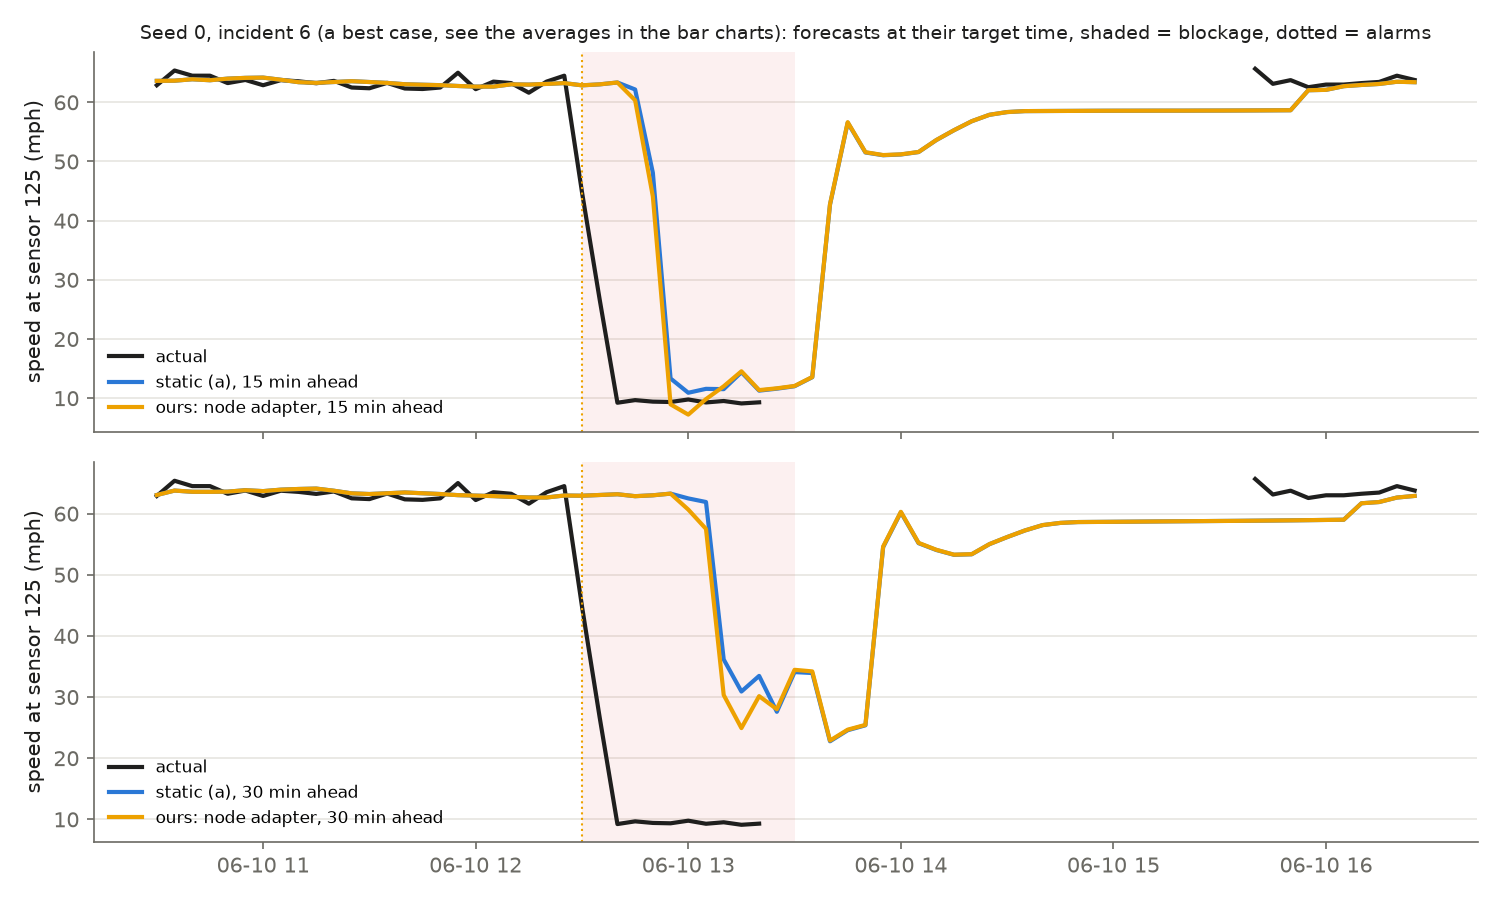
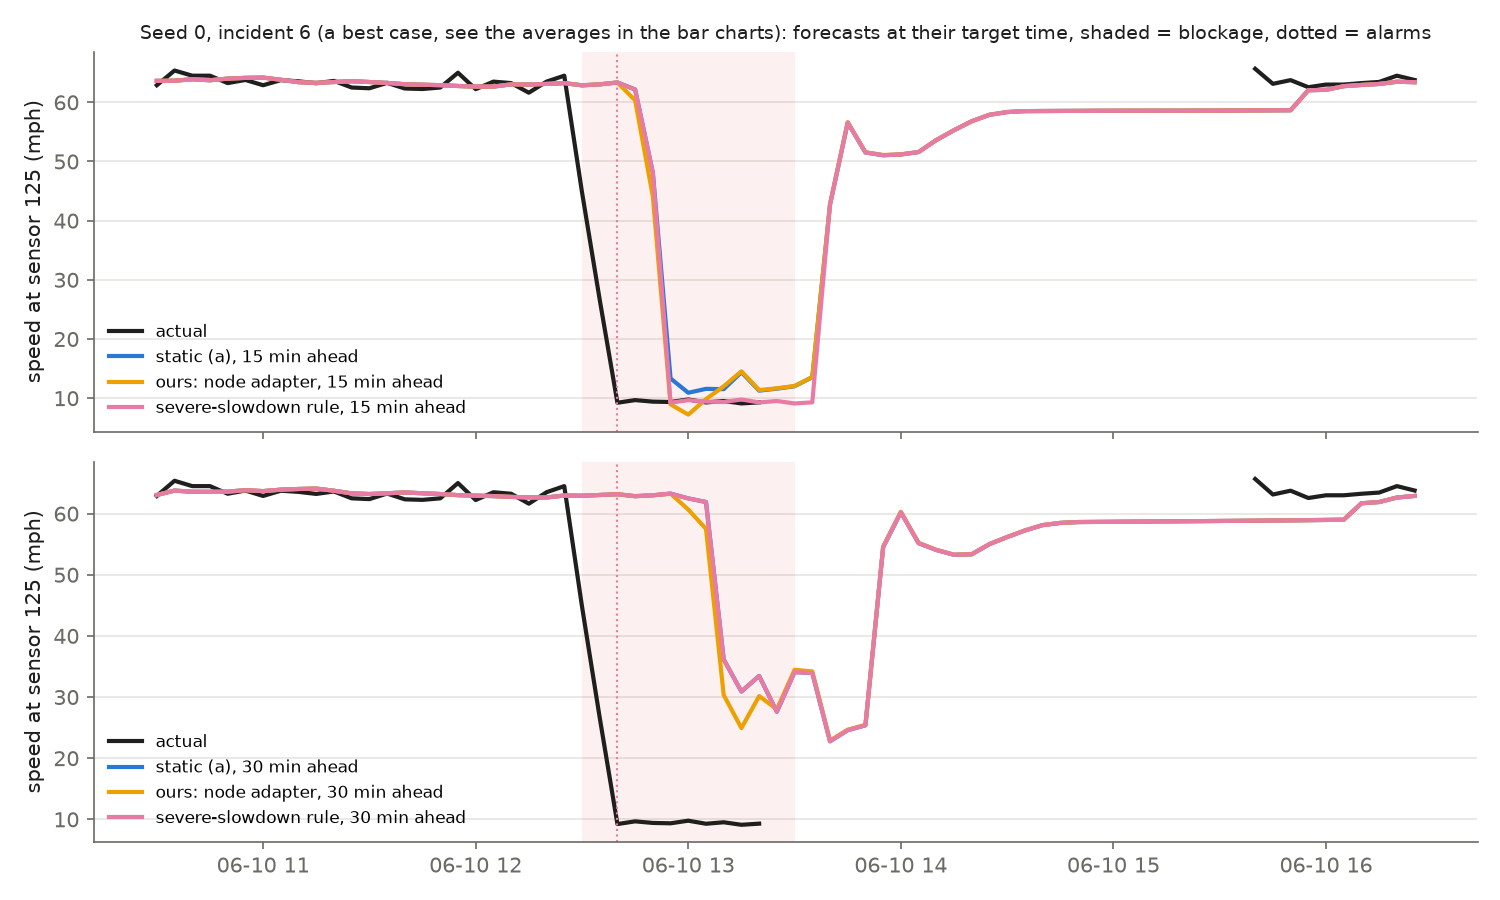
Test the severe-slowdown rule, update figures and the team summary
The rule improves disrupted-period MAE by 0.850 mph on 2 h incidents
(0.113 on 45-minute ones) within the normal-period limit. The learned
adapter stays best on 45-minute incidents. Figures now include a typical
incident next to the best cases.

diff --git a/scripts/plots.py b/scripts/plots.py
@@ -1,7 +1,8 @@
 """Figures from run_experiments.py outputs.
-Usage: python scripts/plots.py [--seed 0] [--event9 6] [--event24 12]
-The default incidents (seed 0) are the ones where ours gains most at 15 min, picked to show the
-mechanism; they are best cases, not typical ones (the bar charts show the averages).
+Usage: python scripts/plots.py [--seed 0] [--event9 6] [--event24 5] [--typical24 9]
+The default incidents (seed 0): event9 and event24 are where the methods gain most at 15 min,
+picked to show the mechanism (best cases); typical24 is the incident closest to the rule's
+median gain. The bar charts show the averages.
 Writes results/fig_mae_bars_dur{9,24}.png and results/fig_incident_seed{S}_dur{D}_{K}.png."""
 import argparse
 import ast
@@ -21,8 +22,10 @@ import incidents  # noqa: E402
 
 RES = ROOT / "results"
 # fixed categorical order (dataviz reference palette, validated for light mode); ours = node-global
-COLORS = {"static": "#2a78d6", "naive": "#eb6834", "head": "#1baf7a", "node-global": "#eda100"}
-LABELS = {"static": "static (a)", "naive": "naive (b)", "head": "head only (spec c)", "node-global": "ours: node adapter"}
+COLORS = {"static": "#2a78d6", "naive": "#eb6834", "head": "#1baf7a", "node-global": "#eda100",
+          "rule-severe": "#e87ba4"}
+LABELS = {"static": "static (a)", "naive": "naive (b)", "head": "head only (spec c)",
+          "node-global": "ours: node adapter", "rule-severe": "severe-slowdown rule"}
 INK, MUTED = "#1f1f1e", "#6b6a64"
 
 
@@ -62,7 +65,7 @@ def bars(dur):
     plt.close(fig)
 
 
-def incident(seed, dur, k):
+def incident(seed, dur, k, note="a best case, see the averages in the bar charts"):
     ev = pd.read_csv(RES / f"incidents_seed{seed}_dur{dur}.csv", converters={"sensors": ast.literal_eval})
     e = ev.iloc[k]
     df = data.load_speed_df()
@@ -74,12 +77,12 @@ def incident(seed, dur, k):
     for ax, (col, hz) in zip(axes, [(1, "15 min"), (2, "30 min")]):
         s = e.sensors[0]
         ax.plot(df.index[t], np.where(speed[t, s] == 0, np.nan, speed[t, s]), color=INK, lw=2, label="actual")
-        for v in ["static", "node-global"]:
+        for v in ["static", "node-global", "rule-severe"]:
             z = np.load(RES / "replays" / f"seed{seed}_dur{dur}_{v}.npz")
             step = [0, 3, 6][col]  # saved horizons are 1, 3, 6, 12 steps ahead
             p = z["preds"][:, col]  # row i issued at t0 + i, target t0 + i + step
             ax.plot(df.index[t], p[t - step - t0, s], color=COLORS[v], lw=2, label=f"{LABELS[v]}, {hz} ahead")
-            if v == "node-global":
+            if v == "rule-severe":
                 for al in z["alarms"]:
                     if lo <= al < hi:
                         ax.axvline(df.index[int(al)], color=COLORS[v], ls=":", lw=1)
@@ -87,7 +90,7 @@ def incident(seed, dur, k):
         ax.set_ylabel(f"speed at sensor {s} (mph)", color=INK)
         ax.legend(frameon=False, fontsize=8, loc="lower left")
         style(ax)
-    axes[0].set_title(f"Seed {seed}, incident {k} (a best case, see the averages in the bar charts): "
+    axes[0].set_title(f"Seed {seed}, incident {k} ({note}): "
                       f"forecasts at their target time, shaded = blockage, dotted = alarms", color=INK, fontsize=9)
     fig.tight_layout()
     fig.savefig(RES / f"fig_incident_seed{seed}_dur{dur}_{k}.png", dpi=150)
@@ -98,9 +101,11 @@ if __name__ == "__main__":
     ap = argparse.ArgumentParser()
     ap.add_argument("--seed", type=int, default=0)
     ap.add_argument("--event9", type=int, default=6)
-    ap.add_argument("--event24", type=int, default=12)
+    ap.add_argument("--event24", type=int, default=5)
+    ap.add_argument("--typical24", type=int, default=9, help="incident closest to the median gain")
     a = ap.parse_args()
     for dur, k in ((9, a.event9), (24, a.event24)):
         bars(dur)
         incident(a.seed, dur, k)
+    incident(a.seed, 24, a.typical24, note="a typical case: median gain of the rule")
     print("figures written to", RES)

diff --git a/docs/TEAM_UPDATE.md b/docs/TEAM_UPDATE.md
@@ -42,20 +42,31 @@ Disrupted-period MAE averaged over 15/30/60 min, improvement over the static mod
 |---|---|---|---|
 | naive fine-tuning (b) | 3.37 mph worse | 2.20 mph worse | 1.85 mph worse |
 | spec's head-only update (c) | no change | no change | 0.03 mph worse |
-| ours (node adapter) | 0.19 mph better | 0.27 mph better | 0.004 mph worse (within our 0.005 limit) |
+| ours: node adapter | 0.19 mph better | 0.27 mph better | 0.004 mph worse |
+| severe-slowdown rule | 0.11 mph better | 0.85 mph better | 0.004 mph worse |
 
-At 15 minutes during 45-minute incidents, ours goes from 13.25 to 13.00 mph MAE. Each update
-takes about 0.1 s, far below the 5-minute budget. Naive fine-tuning shows the forgetting the spec
-expected.
+Both of our methods stay within the limit we set for the normal period (0.005 mph). Each update
+of the adapter takes about 0.1 s, far below the 5-minute budget; the rule needs no training.
 
-The gains are modest, and there's a measured reason: for 45-minute incidents, most of the error
-comes from forecasts made before the incident started, which no online method can fix. At 60
-minutes that's 82 % of the error. Long incidents leave more room, which is why the gain is
-larger there.
+The severe-slowdown rule is a second, simpler method I added after looking at where the error
+comes from. After an alarm, a sensor that reads below 30 % of its usual speed for that time of
+day gets its 15-minute forecast pulled to the last observed speed; the 30-minute forecast is
+pulled too once the slowdown has lasted an hour. In 2 h incidents this cuts the 15-minute error
+from 12.07 to 10.14 mph (16 %). It isn't a parameter update, so I present it next to the adapter
+rather than instead of it, and its thresholds were tuned on synthetic incidents of two fixed
+lengths, so they may not transfer one to one to real incidents.
 
-Figures: `results/fig_mae_bars_dur9.png`, `results/fig_mae_bars_dur24.png`, and two example
-incidents (`results/fig_incident_seed0_dur9_6.png`, `..._dur24_12.png`; these are best cases,
-picked to show the mechanism).
+Why the gains on 45-minute incidents stay small: most of that error comes from forecasts made
+before the incident started, and from forecasts that cross the moment it clears. No online
+method can know either. On the validation period, 82 % of the 60-minute error comes from
+forecasts issued before the onset, and holding the last observed speed with perfect knowledge
+of where and when the incident is makes 45-minute incidents worse while gaining about 4.6 mph
+on 2-hour ones. That is the main finding of the tuning: how much online adaptation can help depends on how
+long incidents last.
+
+Figures: `results/fig_mae_bars_dur9.png` and `..._dur24.png` (averages), two best-case
+incidents (`fig_incident_seed0_dur9_6.png`, `fig_incident_seed0_dur24_5.png`) and one typical
+one (`fig_incident_seed0_dur24_9.png`).
 
 ## Still open
 

diff --git a/docs/PLAN.md b/docs/PLAN.md
@@ -10,10 +10,11 @@ point to. An earlier draft of the spec contained made-up numbers, and none of th
 
 ## Where we left off (update at the end of every session)
 
-2026-10-10. Method settled and evaluated on test. "Ours" is the node adapter (node-global in
-`results/test_variants.jsonl`); test results and the decision are at the end of
-`docs/EXPERIMENTS.md`, the team-facing summary is `docs/TEAM_UPDATE.md`, figures in `results/`.
-Open: mined real incidents as a scenario, dashboard.
+2026-10-29. Two methods evaluated on test: the learned node adapter (best on 45-minute
+incidents) and the severe-slowdown rule (best on 2 h incidents). Details at the end of
+`docs/EXPERIMENTS.md`, team summary in `docs/TEAM_UPDATE.md`, figures in `results/`.
+Open: a hybrid that passes the normal-period constraint, mined real incidents as a scenario
+(the best check of whether the rule's thresholds transfer), dashboard.
 
 To continue after a break or a shutdown:
 1. Tuning queue: `powershell -ExecutionPolicy Bypass -File scripts\start_tuning.ps1`. It runs
@@ -294,3 +295,6 @@ Append only, newest last.
   decay 0.7, 3 training windows, 6 continuous update steps after an alarm, nbrtop3 PageHinkley
   detector at threshold 8. Chosen on validation (EXPERIMENTS E0 to E15), confirmed on test:
   disrupted gain +0.185 mph (45 min) and +0.267 (2 h), normal-period delta +0.0036.
+- 2026-10-29: Added the severe-slowdown rule (Persist in src/adapt.py, config "rule-severe") as a
+  rule-based alternative to the learned adapter. Test: +0.113 (45 min) and +0.850 (2 h), normal
+  delta +0.0036. Reported next to the adapter, not instead of it.

diff --git a/docs/EXPERIMENTS.md b/docs/EXPERIMENTS.md
@@ -552,4 +552,20 @@ alternative next to the learned adapter, not as a replacement for it.
 ### Test run 2: the rule against the learned adapter
 rule-severe added to `results/test_variants.jsonl` and run on test (3 seeds, dur 9 and 24),
 alongside the existing test results.
-Outcome: pending.
+Outcome (test; gain = static disrupted MAE minus variant, mean over 15/30/60 min, +- std over
+seeds):
+
+| variant | 45 min gain | 2 h gain | dis15 at 45 min / 2 h | norm15 delta |
+|---|---|---|---|---|
+| static | 0 | 0 | 13.248 / 12.065 | 0 |
+| node-global (learned adapter) | +0.185 +- 0.047 | +0.267 +- 0.068 | 12.996 / 11.708 | +0.0036 |
+| rule-severe | +0.113 +- 0.031 | +0.850 +- 0.153 | 12.889 / 10.142 | +0.0036 |
+
+The rule holds up on test (validation: +0.169 / +1.049) and is the best method for long
+incidents: the 15 minute error in 2 h incidents drops by 16 % (12.07 -> 10.14 mph). The learned
+adapter stays best on the spec's 45-minute incidents. They are complementary, but the hybrid
+failed the normal-period constraint on validation (E20), so no combined method is claimed.
+Per incident (seed 0, 15 min, incident sensors): the rule's median gain is 0.02 mph for 45-minute
+incidents and 0.83 for 2 h ones, with best cases of 6.2 and 6.0 mph.
+Figures: `results/fig_mae_bars_dur9.png`, `..._dur24.png`, best cases
+`fig_incident_seed0_dur9_6.png` and `..._dur24_5.png`, typical case `..._dur24_9.png`.
